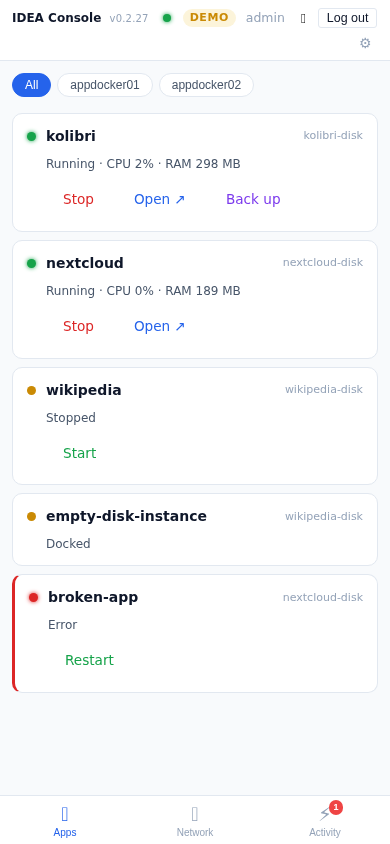
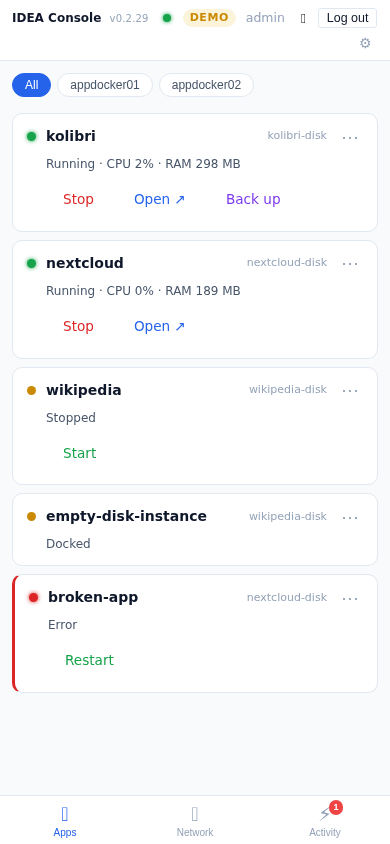
feat: mobile copy/move — ⋯ button + bottom sheet (v0.2.30)
- MobileCopyMoveSheet: bottom sheet with Move/Copy op selector,
  scrollable target disk list (engine name shown), confirm button
- MobileAppList: ⋯ button on each card top row triggers the sheet
- copyApp/moveApp called directly on confirm
- Backdrop tap closes the sheet

diff --git a/src/components/MobileCopyMoveSheet.tsx b/src/components/MobileCopyMoveSheet.tsx
@@ -1,0 +1,145 @@
+/**
+ * MobileCopyMoveSheet
+ *
+ * Bottom sheet that lets the user copy or move an instance to a different disk.
+ * Shown when the ⋯ menu on a mobile app card is tapped.
+ */
+import { For, Show, createSignal, type Component } from 'solid-js';
+import { copyApp, moveApp } from '../store/commands';
+import type { Store, Instance, Disk } from '../types/store';
+
+interface TargetDisk {
+  disk: Disk;
+  engineHostname: string;
+}
+
+interface MobileCopyMoveSheetProps {
+  instance: Instance;
+  store: () => Store | null;
+  onClose: () => void;
+}
+
+const MobileCopyMoveSheet: Component<MobileCopyMoveSheetProps> = (props) => {
+  const [selectedDiskId, setSelectedDiskId] = createSignal<string | null>(null);
+  const [op, setOp] = createSignal<'copy' | 'move' | null>(null);
+
+  /** App disks on any engine, excluding the disk the instance currently lives on. */
+  const targetDisks = (): TargetDisk[] => {
+    const s = props.store();
+    if (!s) return [];
+    return Object.values(s.diskDB)
+      .filter(
+        (d) =>
+          d.device !== null &&
+          (d.diskTypes ?? []).includes('app') &&
+          d.id !== props.instance.storedOn
+      )
+      .map((d) => ({
+        disk: d,
+        engineHostname: d.dockedTo
+          ? (s.engineDB[String(d.dockedTo)]?.hostname ?? String(d.dockedTo))
+          : '?',
+      }))
+      .sort((a, b) => a.engineHostname.localeCompare(b.engineHostname));
+  };
+
+  const sourceDisk = (): Disk | undefined => {
+    const s = props.store();
+    if (!s || !props.instance.storedOn) return undefined;
+    return s.diskDB[props.instance.storedOn];
+  };
+
+  const sourceEngineId = (): string | undefined => {
+    const d = sourceDisk();
+    return d?.dockedTo ? String(d.dockedTo) : undefined;
+  };
+
+  const handleConfirm = () => {
+    const diskId = selectedDiskId();
+    const operation = op();
+    const engineId = sourceEngineId();
+    const src = sourceDisk();
+    if (!diskId || !operation || !engineId || !src) return;
+
+    if (operation === 'copy') {
+      copyApp(engineId, props.instance.name, String(src.id), diskId);
+    } else {
+      moveApp(engineId, props.instance.name, String(src.id), diskId);
+    }
+    props.onClose();
+  };
+
+  return (
+    <>
+      {/* Backdrop */}
+      <div class="mobile-sheet-backdrop" onClick={props.onClose} />
+
+      {/* Sheet */}
+      <div class="mobile-sheet" role="dialog" aria-modal="true" aria-label="Copy or Move">
+        <div class="mobile-sheet__handle" />
+        <div class="mobile-sheet__title">
+          Move or copy <strong>{props.instance.name}</strong>
+        </div>
+        <div class="mobile-sheet__subtitle">
+          Currently on <em>{sourceDisk()?.name ?? '—'}</em>
+        </div>
+
+        {/* Op selector */}
+        <div class="mobile-sheet__op-row">
+          <button
+            class={`mobile-sheet__op-btn${op() === 'move' ? ' mobile-sheet__op-btn--active' : ''}`}
+            onClick={() => setOp('move')}
+          >
+            ✂ Move
+          </button>
+          <button
+            class={`mobile-sheet__op-btn${op() === 'copy' ? ' mobile-sheet__op-btn--active' : ''}`}
+            onClick={() => setOp('copy')}
+          >
+            📋 Copy
+          </button>
+        </div>
+
+        {/* Target disk list */}
+        <div class="mobile-sheet__section-label">Target disk</div>
+        <Show
+          when={targetDisks().length > 0}
+          fallback={<div class="mobile-sheet__empty">No other app disks available</div>}
+        >
+          <div class="mobile-sheet__disk-list">
+            <For each={targetDisks()}>
+              {({ disk, engineHostname }) => (
+                <button
+                  class={`mobile-sheet__disk-row${selectedDiskId() === String(disk.id) ? ' mobile-sheet__disk-row--selected' : ''}`}
+                  onClick={() => setSelectedDiskId(String(disk.id))}
+                >
+                  <span class="mobile-sheet__disk-name">{disk.name}</span>
+                  <span class="mobile-sheet__disk-engine">{engineHostname}</span>
+                  <Show when={selectedDiskId() === String(disk.id)}>
+                    <span class="mobile-sheet__check">✓</span>
+                  </Show>
+                </button>
+              )}
+            </For>
+          </div>
+        </Show>
+
+        {/* Confirm button */}
+        <button
+          class="btn btn--primary mobile-sheet__confirm"
+          disabled={!selectedDiskId() || !op()}
+          onClick={handleConfirm}
+        >
+          {op() === 'move' ? 'Move' : op() === 'copy' ? 'Copy' : 'Select an action'}
+          <Show when={selectedDiskId() && op()}>
+            {' '}to {targetDisks().find((t) => String(t.disk.id) === selectedDiskId())?.disk.name}
+          </Show>
+        </button>
+
+        <button class="mobile-sheet__cancel" onClick={props.onClose}>Cancel</button>
+      </div>
+    </>
+  );
+};
+
+export default MobileCopyMoveSheet;

diff --git a/src/styles/main.css b/src/styles/main.css
@@ -2862,3 +2862,162 @@ body {
   flex-direction: column;
   gap: 10px;
 }
+
+/* ── Mobile app card ⋯ button ──────────────────────────────────────── */
+.mobile-app-card__more-btn {
+  background: none;
+  border: none;
+  font-size: 18px;
+  color: var(--colour-text-dim);
+  cursor: pointer;
+  padding: 0 4px;
+  line-height: 1;
+  flex-shrink: 0;
+  border-radius: 4px;
+}
+.mobile-app-card__more-btn:hover { color: var(--colour-text); }
+
+/* ── Mobile copy/move bottom sheet ─────────────────────────────── */
+.mobile-sheet-backdrop {
+  position: fixed;
+  inset: 0;
+  background: rgba(0, 0, 0, 0.4);
+  z-index: 200;
+}
+
+.mobile-sheet {
+  position: fixed;
+  bottom: 0;
+  left: 0;
+  right: 0;
+  background: var(--colour-surface);
+  border-radius: 16px 16px 0 0;
+  padding: 12px 16px 32px;
+  z-index: 201;
+  display: flex;
+  flex-direction: column;
+  gap: 10px;
+  max-height: 85vh;
+  overflow-y: auto;
+}
+
+.mobile-sheet__handle {
+  width: 36px;
+  height: 4px;
+  border-radius: 2px;
+  background: var(--colour-border);
+  margin: 0 auto 4px;
+}
+
+.mobile-sheet__title {
+  font-size: 15px;
+  font-weight: 600;
+}
+
+.mobile-sheet__subtitle {
+  font-size: 13px;
+  color: var(--colour-text-muted);
+  margin-top: -6px;
+}
+
+.mobile-sheet__op-row {
+  display: flex;
+  gap: 8px;
+}
+
+.mobile-sheet__op-btn {
+  flex: 1;
+  padding: 10px;
+  border-radius: 8px;
+  border: 1px solid var(--colour-border);
+  background: var(--colour-surface);
+  font-size: 14px;
+  font-weight: 500;
+  color: var(--colour-text-muted);
+  cursor: pointer;
+  text-align: center;
+}
+
+.mobile-sheet__op-btn--active {
+  background: #eff6ff;
+  border-color: #2563eb;
+  color: #2563eb;
+}
+
+.mobile-sheet__section-label {
+  font-size: 11px;
+  font-weight: 600;
+  text-transform: uppercase;
+  letter-spacing: .05em;
+  color: var(--colour-text-dim);
+}
+
+.mobile-sheet__disk-list {
+  display: flex;
+  flex-direction: column;
+  gap: 0;
+  border: 1px solid var(--colour-border);
+  border-radius: 8px;
+  overflow: hidden;
+}
+
+.mobile-sheet__disk-row {
+  display: flex;
+  align-items: center;
+  gap: 8px;
+  padding: 12px 14px;
+  background: var(--colour-surface);
+  border: none;
+  border-bottom: 1px solid var(--colour-border);
+  cursor: pointer;
+  text-align: left;
+  font-size: 13px;
+}
+
+.mobile-sheet__disk-row:last-child { border-bottom: none; }
+
+.mobile-sheet__disk-row--selected {
+  background: #eff6ff;
+}
+
+.mobile-sheet__disk-name {
+  flex: 1;
+  font-weight: 500;
+}
+
+.mobile-sheet__disk-engine {
+  font-size: 11px;
+  color: var(--colour-text-dim);
+}
+
+.mobile-sheet__check {
+  color: #2563eb;
+  font-weight: 700;
+  margin-left: 4px;
+}
+
+.mobile-sheet__empty {
+  font-size: 13px;
+  color: var(--colour-text-dim);
+  padding: 12px 0;
+  text-align: center;
+}
+
+.mobile-sheet__confirm {
+  width: 100%;
+  padding: 12px;
+  font-size: 14px;
+  border-radius: 10px;
+}
+
+.mobile-sheet__cancel {
+  width: 100%;
+  padding: 10px;
+  font-size: 14px;
+  background: none;
+  border: none;
+  color: var(--colour-text-muted);
+  cursor: pointer;
+  border-radius: 10px;
+}
+.mobile-sheet__cancel:hover { background: var(--colour-surface-hover); }

diff --git a/src/components/MobileAppList.tsx b/src/components/MobileAppList.tsx
@@ -1,5 +1,6 @@
 import { createSignal, createMemo, For, Show, type Accessor, type Component } from 'solid-js';
 import StatusDot from './StatusDot';
+import MobileCopyMoveSheet from './MobileCopyMoveSheet';
 import { startInstance, stopInstance, backupApp } from '../store/commands';
 import { getActiveOpsForInstance } from '../store/operations';
 import type { Store, Instance, Disk, Engine, Operation } from '../types/store';
@@ -21,6 +22,7 @@ const formatMB = (bytes: number | null): string => {
 
 const MobileAppList: Component<MobileAppListProps> = (props) => {
   const [selectedEngineId, setSelectedEngineId] = createSignal<string | null>(null);
+  const [copyMoveInstance, setCopyMoveInstance] = createSignal<Instance | null>(null);
 
   const engines = createMemo(() => {
     const s = props.store();
@@ -116,6 +118,7 @@ const MobileAppList: Component<MobileAppListProps> = (props) => {
   };
 
   return (
+    <>
     <div class="mobile-app-list">
       {/* Filter chips */}
       <div class="mobile-filter-chips">
@@ -152,6 +155,12 @@ const MobileAppList: Component<MobileAppListProps> = (props) => {
                 <StatusDot status={inst.status} size={9} />
                 <span class="mobile-app-card__name">{inst.name}</span>
                 <span class="mobile-app-card__disk">{disk()?.name ?? '—'}</span>
+                <button
+                  class="mobile-app-card__more-btn"
+                  title="Copy or move"
+                  aria-label="Copy or move"
+                  onClick={() => setCopyMoveInstance(inst)}
+                >⋯</button>
               </div>
 
               <div class="mobile-app-card__status">{statusText(inst)}</div>
@@ -226,6 +235,18 @@ const MobileAppList: Component<MobileAppListProps> = (props) => {
         }}
       </For>
     </div>
+
+    {/* Copy/Move bottom sheet */}
+    <Show when={copyMoveInstance()}>
+      {(inst) => (
+        <MobileCopyMoveSheet
+          instance={inst()}
+          store={props.store}
+          onClose={() => setCopyMoveInstance(null)}
+        />
+      )}
+    </Show>
+    </>
   );
 };
 

diff --git a/MEMORY.md b/MEMORY.md
@@ -32,7 +32,9 @@
 - **Always give the full URL after every change:** `http://100.115.60.6:5173` (Tailscale) or `http://192.168.0.231:5173` (LAN)
 
 ## What to do at next session start
-- main is up to date as of PR #59 (v0.2.27) — mobile bottom tab bar merged
+- main is up to date as of PR #61 (v0.2.29)
+  - PR #60: drag-drop highlight + engine name in modal
+  - PR #61: show log on Failed/Done operation cards (matchingTrace fallback fix)
   - CommandHistory + LogLines components
   - OperationProgress shows live log for running ops
   - Mock store has running demo operation for screenshots
